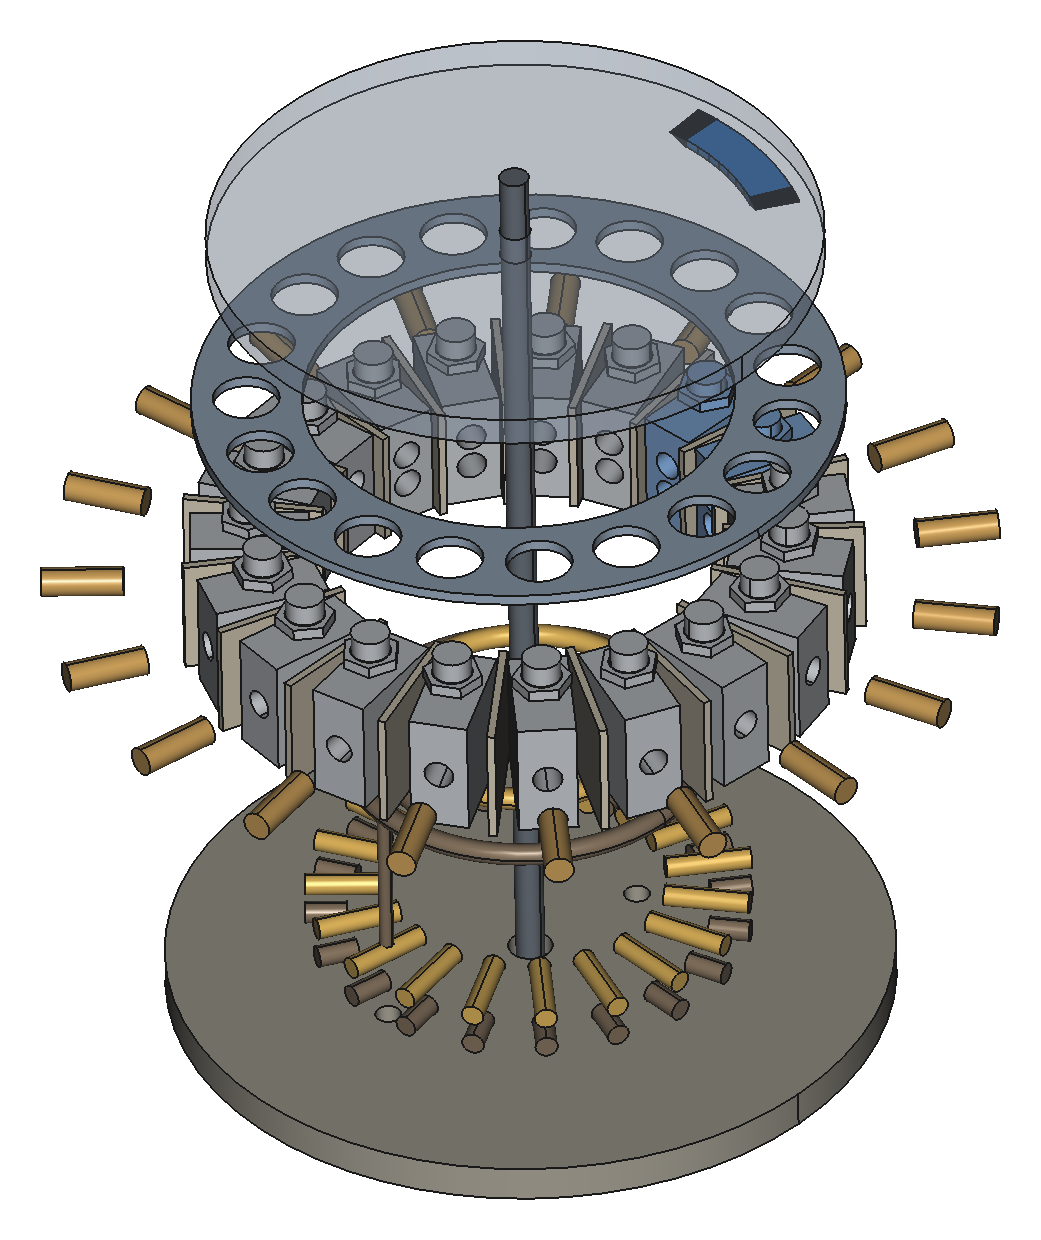
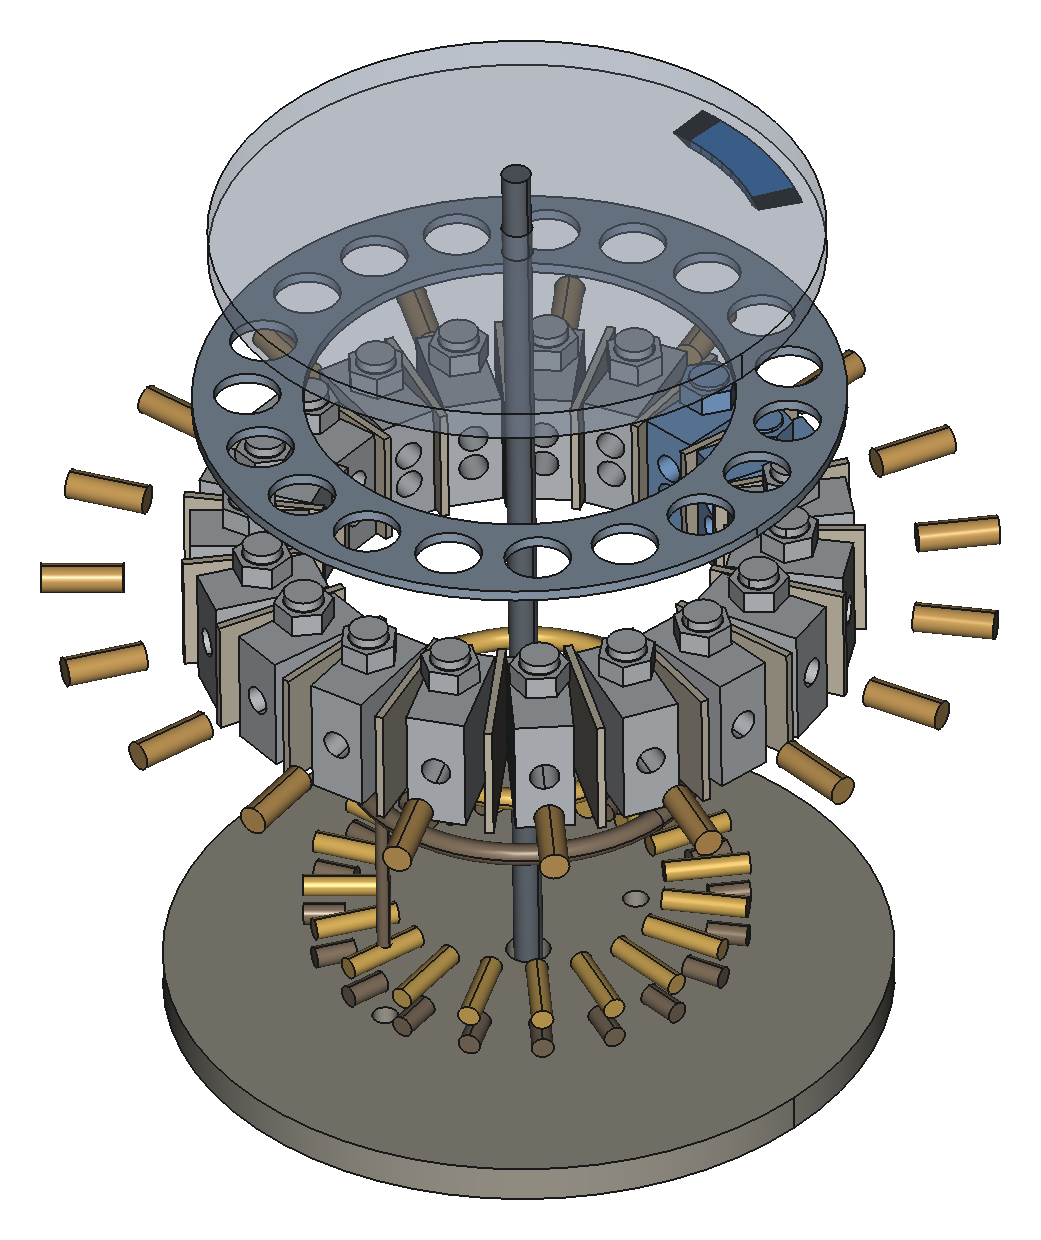
Show the valve button as a short cap on the nut.
A 6 mm pin above a thin nut read as a separate pusher. The nut is
taller and the Ø10.6 cap sits on it, so the cam bears on the valve's
own button.

diff --git a/mitrailleuse/valve_head.py b/mitrailleuse/valve_head.py
@@ -176,8 +176,12 @@ def valve_shape(j):
         holes.append(Part.makeCylinder(PORT_D / 2.0, 14.0, App.Vector(0, y0 - 1.0, z_mid + dz),
                                        App.Vector(0, 1, 0)))
     body = body.cut(holes)
-    nut = hex_prism(NUT_AF, 3.2, z_ret1 + 0.2, 0, R).cut(cyl(11.0, z_ret1, z_ret1 + 4.0, 0, R))
-    button = cyl(BUTTON_D, z_ret1 + 3.5 - down, z_tip - down, 0, R)
+    # Tall nut, short cap. A 6 mm pin above a thin nut read as a pusher; the cap is the
+    # valve's own button, Ø10.6, and it sinks into the nut's bore when the cam presses.
+    nut_h = 6.4
+    nut_z = z_ret1 + 0.2
+    nut = hex_prism(NUT_AF, nut_h, nut_z, 0, R).cut(cyl(11.0, nut_z - 0.2, nut_z + nut_h + 0.4, 0, R))
+    button = cyl(BUTTON_D, nut_z + nut_h + 0.15 - down, z_tip - down, 0, R)
     shape = body.fuse(nut).fuse(button)
     return spun(shape, math.degrees(ang - math.pi / 2.0))
 
@@ -382,8 +386,8 @@ check(press_d < 0.05 and press_hit < 20.0,
       "pressed button meets the lobe, common volume %.1f mm3" % press_hit)
 free_lobe = min(valves[j].distToShape(pad)[0] for j in range(N) if not depressed(j))
 check(free_lobe > 0.05, "free buttons stay off the lobe, closest %.2f mm" % free_lobe)
-nut_top = z_ret1 + 3.4
-check(z_cam_base - LOBE_H > nut_top + 2.0, "lobe stays %.1f mm above the nut"
+nut_top = z_ret1 + 0.2 + 6.4
+check(z_cam_base - LOBE_H > nut_top + 0.4, "lobe stays %.1f mm above the nut"
       % (z_cam_base - LOBE_H - nut_top))
 check(VR["STROKE"] - DEPRESS > 0.3, "press %.1f mm leaves %.1f mm to the valve stop"
       % (DEPRESS, VR["STROKE"] - DEPRESS))
